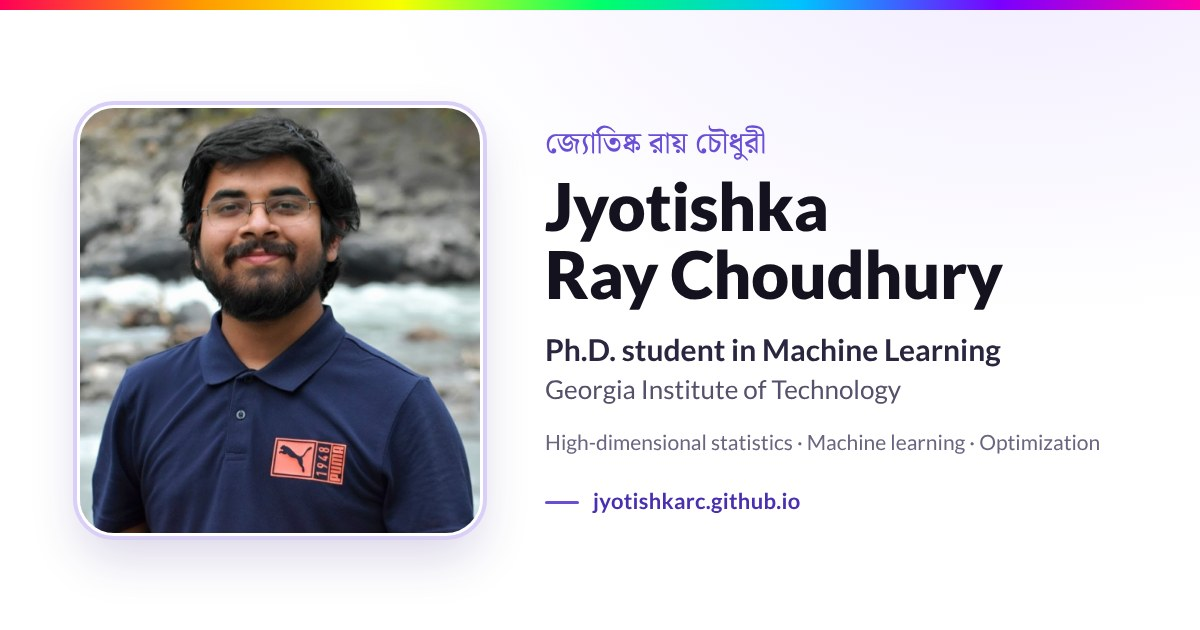
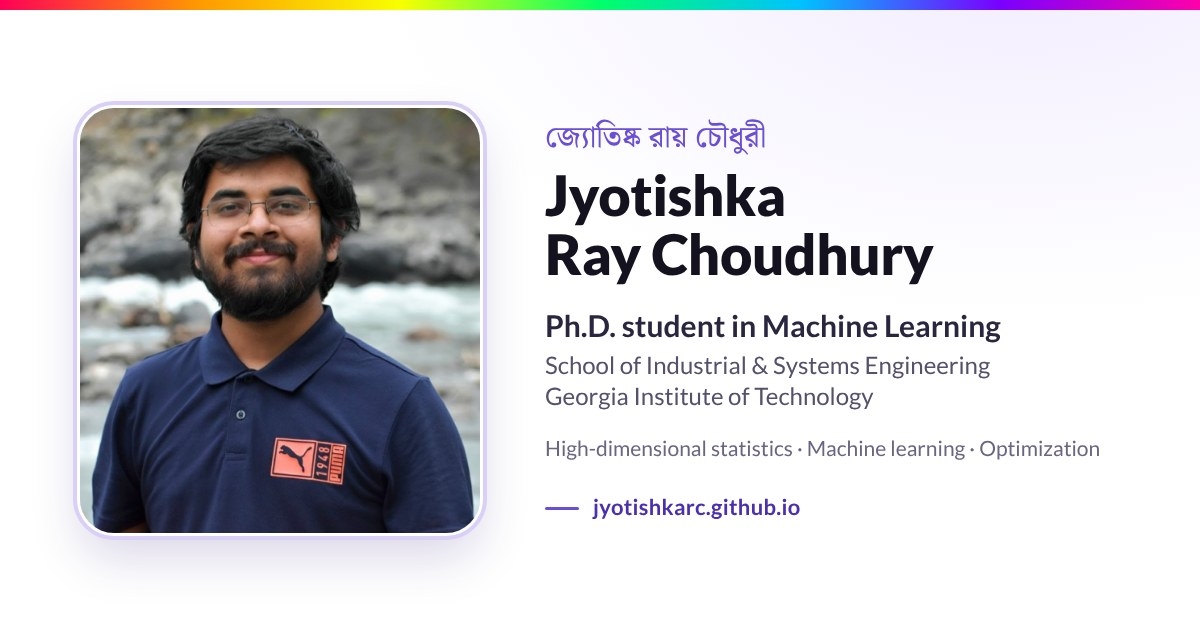
Link preview card: slightly smaller name; add the School above Georgia Tech
Claude-Session: https://claude.ai/code/session_01K9rh9QkoucmSPEsKHBCBwq

diff --git a/index.html b/index.html
@@ -29,12 +29,12 @@
         <meta property="og:description" content="Jyotishka Ray Choudhury is a Ph.D. student in Machine Learning at Georgia Tech (ISyE), working on high-dimensional statistics, machine learning, and optimization.">
         <meta property="og:url" content="https://jyotishkarc.github.io/">
         <meta property="og:site_name" content="Jyotishka Ray Choudhury">
-        <meta property="og:image" content="https://jyotishkarc.github.io/images/og-card.jpg">
+        <meta property="og:image" content="https://jyotishkarc.github.io/images/og-card.jpg?v=2">
         <meta property="og:image:width" content="1200">
         <meta property="og:image:height" content="630">
         <meta property="og:image:alt" content="Jyotishka Ray Choudhury, Ph.D. student in Machine Learning at Georgia Tech">
         <meta name="twitter:card" content="summary_large_image">
-        <meta name="twitter:image" content="https://jyotishkarc.github.io/images/og-card.jpg">
+        <meta name="twitter:image" content="https://jyotishkarc.github.io/images/og-card.jpg?v=2">
         <script type="application/ld+json">
         {"@context":"https://schema.org","@type":"Person","name":"Jyotishka Ray Choudhury","url":"https://jyotishkarc.github.io/","jobTitle":"Ph.D. Student","affiliation":{"@type":"CollegeOrUniversity","name":"Georgia Institute of Technology"},"alumniOf":{"@type":"CollegeOrUniversity","name":"Indian Statistical Institute"},"sameAs":["https://scholar.google.com/citations?user=NhTxu3MAAAAJ","https://www.linkedin.com/in/jyotishkarc","https://github.com/jyotishkarc"]}
         </script>

diff --git a/research.html b/research.html
@@ -23,12 +23,12 @@
         <meta property="og:description" content="Publications, preprints and technical notes by Jyotishka Ray Choudhury (Georgia Tech): high-dimensional statistics, machine learning and optimization.">
         <meta property="og:url" content="https://jyotishkarc.github.io/research.html">
         <meta property="og:site_name" content="Jyotishka Ray Choudhury">
-        <meta property="og:image" content="https://jyotishkarc.github.io/images/og-card.jpg">
+        <meta property="og:image" content="https://jyotishkarc.github.io/images/og-card.jpg?v=2">
         <meta property="og:image:width" content="1200">
         <meta property="og:image:height" content="630">
         <meta property="og:image:alt" content="Jyotishka Ray Choudhury, Ph.D. student in Machine Learning at Georgia Tech">
         <meta name="twitter:card" content="summary_large_image">
-        <meta name="twitter:image" content="https://jyotishkarc.github.io/images/og-card.jpg">
+        <meta name="twitter:image" content="https://jyotishkarc.github.io/images/og-card.jpg?v=2">
         <meta name="google-site-verification" content="lLFhq5Fye8DLJsRynzjC8hWz2YQj7RikNk4HZUFowbI" />
 
         <!-- Favicon -->

diff --git a/miscellanea.html b/miscellanea.html
@@ -21,12 +21,12 @@
         <meta property="og:description" content="Miscellanea from Jyotishka Ray Choudhury, Ph.D. student in Machine Learning at Georgia Tech.">
         <meta property="og:url" content="https://jyotishkarc.github.io/miscellanea.html">
         <meta property="og:site_name" content="Jyotishka Ray Choudhury">
-        <meta property="og:image" content="https://jyotishkarc.github.io/images/og-card.jpg">
+        <meta property="og:image" content="https://jyotishkarc.github.io/images/og-card.jpg?v=2">
         <meta property="og:image:width" content="1200">
         <meta property="og:image:height" content="630">
         <meta property="og:image:alt" content="Jyotishka Ray Choudhury, Ph.D. student in Machine Learning at Georgia Tech">
         <meta name="twitter:card" content="summary_large_image">
-        <meta name="twitter:image" content="https://jyotishkarc.github.io/images/og-card.jpg">
+        <meta name="twitter:image" content="https://jyotishkarc.github.io/images/og-card.jpg?v=2">
         <meta name="google-site-verification" content="lLFhq5Fye8DLJsRynzjC8hWz2YQj7RikNk4HZUFowbI" />
         
         <!-- Favicon -->

diff --git a/pages/teaching.html b/pages/teaching.html
@@ -21,12 +21,12 @@
         <meta property="og:description" content="Teaching by Jyotishka Ray Choudhury, Ph.D. student in Machine Learning at Georgia Tech.">
         <meta property="og:url" content="https://jyotishkarc.github.io/pages/teaching.html">
         <meta property="og:site_name" content="Jyotishka Ray Choudhury">
-        <meta property="og:image" content="https://jyotishkarc.github.io/images/og-card.jpg">
+        <meta property="og:image" content="https://jyotishkarc.github.io/images/og-card.jpg?v=2">
         <meta property="og:image:width" content="1200">
         <meta property="og:image:height" content="630">
         <meta property="og:image:alt" content="Jyotishka Ray Choudhury, Ph.D. student in Machine Learning at Georgia Tech">
         <meta name="twitter:card" content="summary_large_image">
-        <meta name="twitter:image" content="https://jyotishkarc.github.io/images/og-card.jpg">
+        <meta name="twitter:image" content="https://jyotishkarc.github.io/images/og-card.jpg?v=2">
         <meta name="google-site-verification" content="lLFhq5Fye8DLJsRynzjC8hWz2YQj7RikNk4HZUFowbI" />
         
         <!-- Favicon -->
